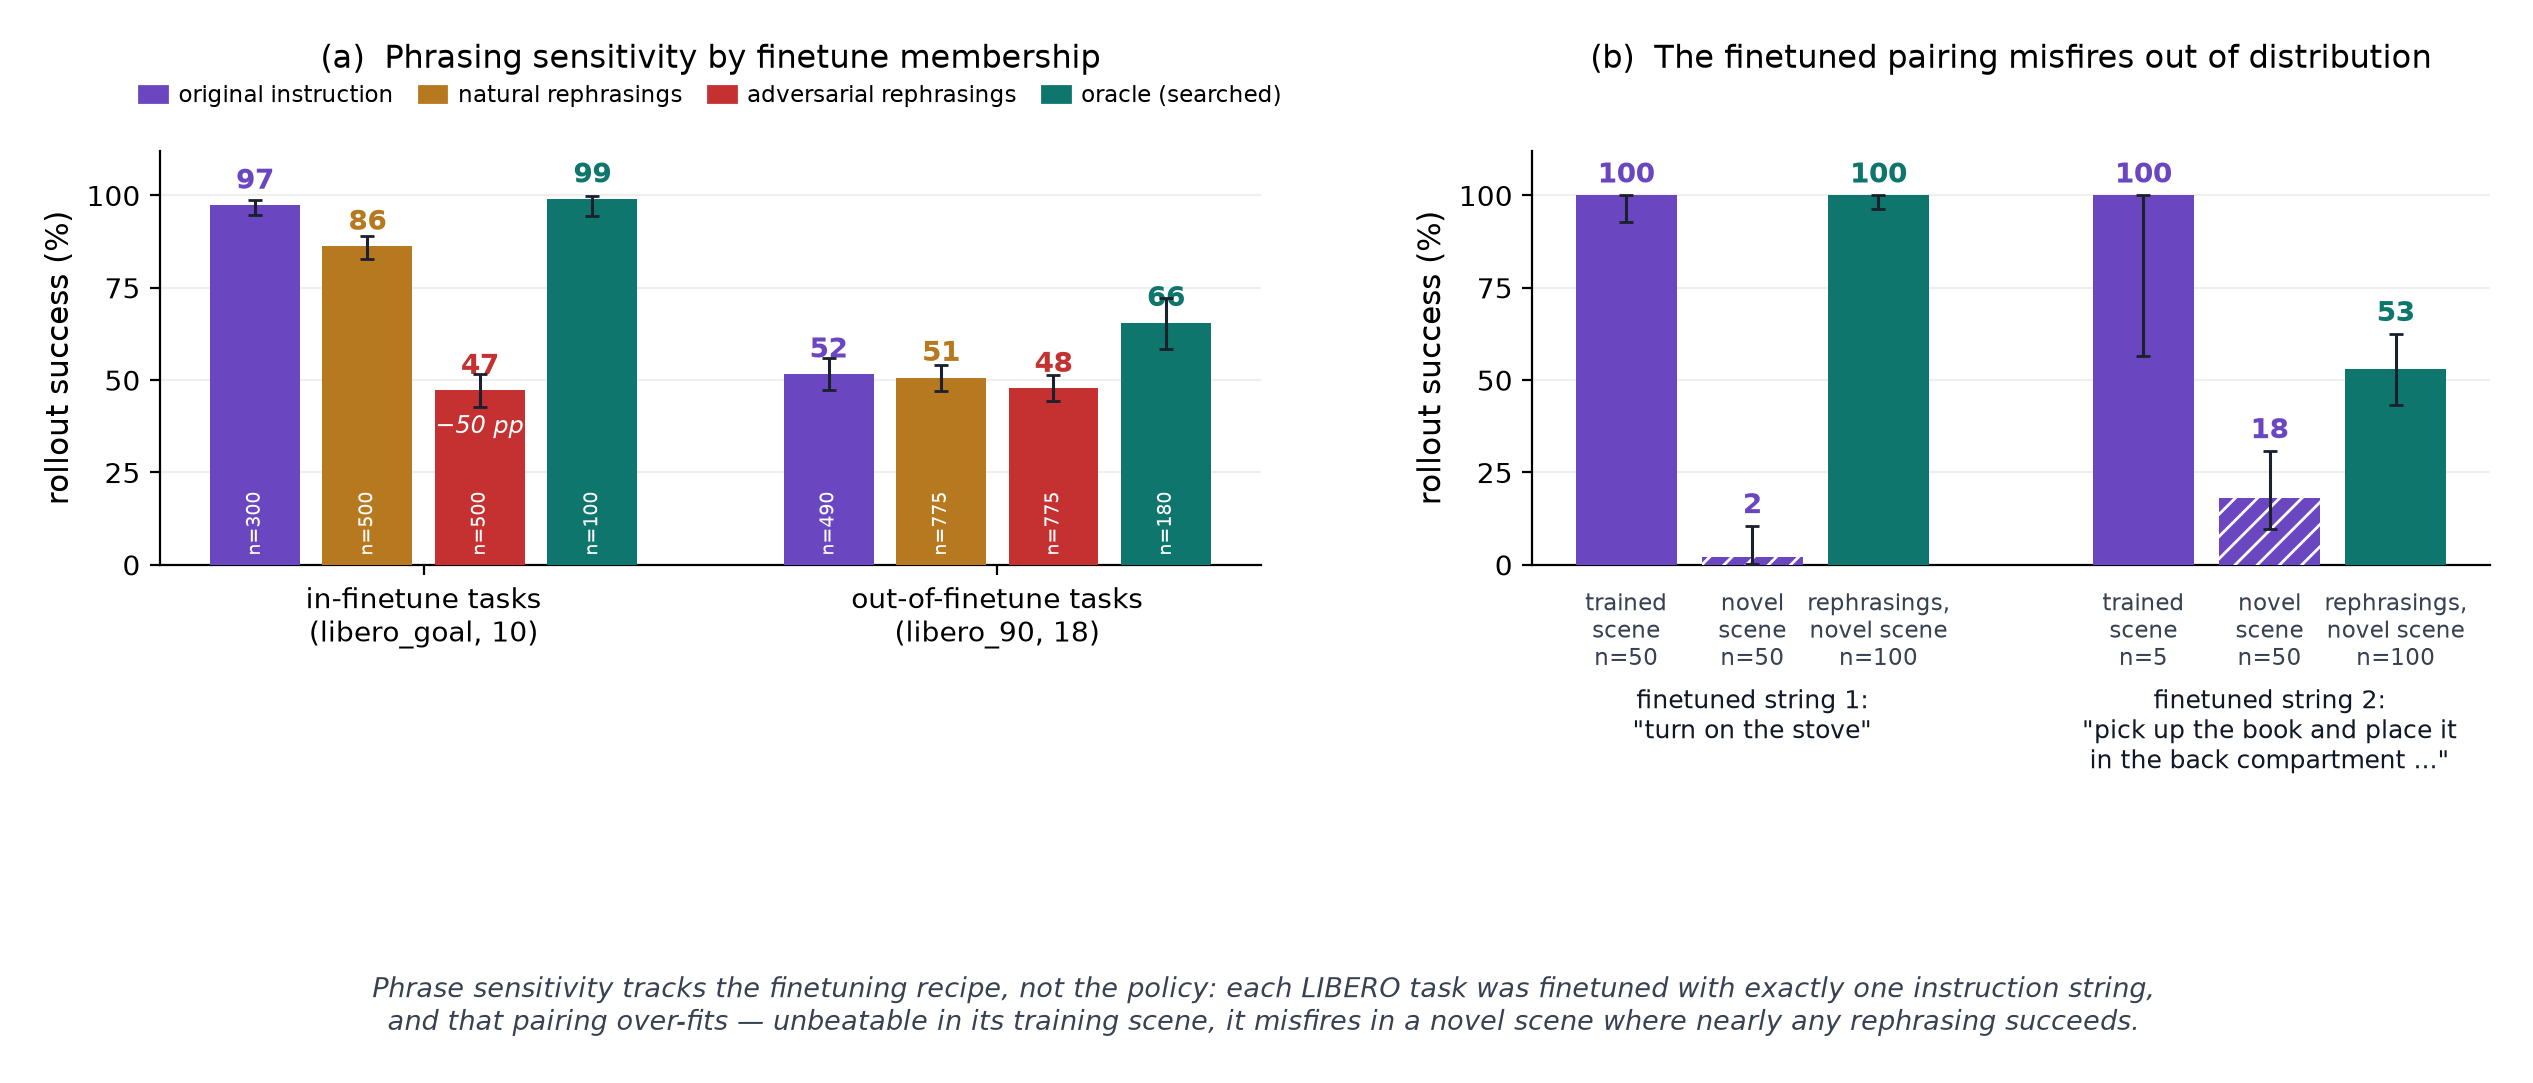
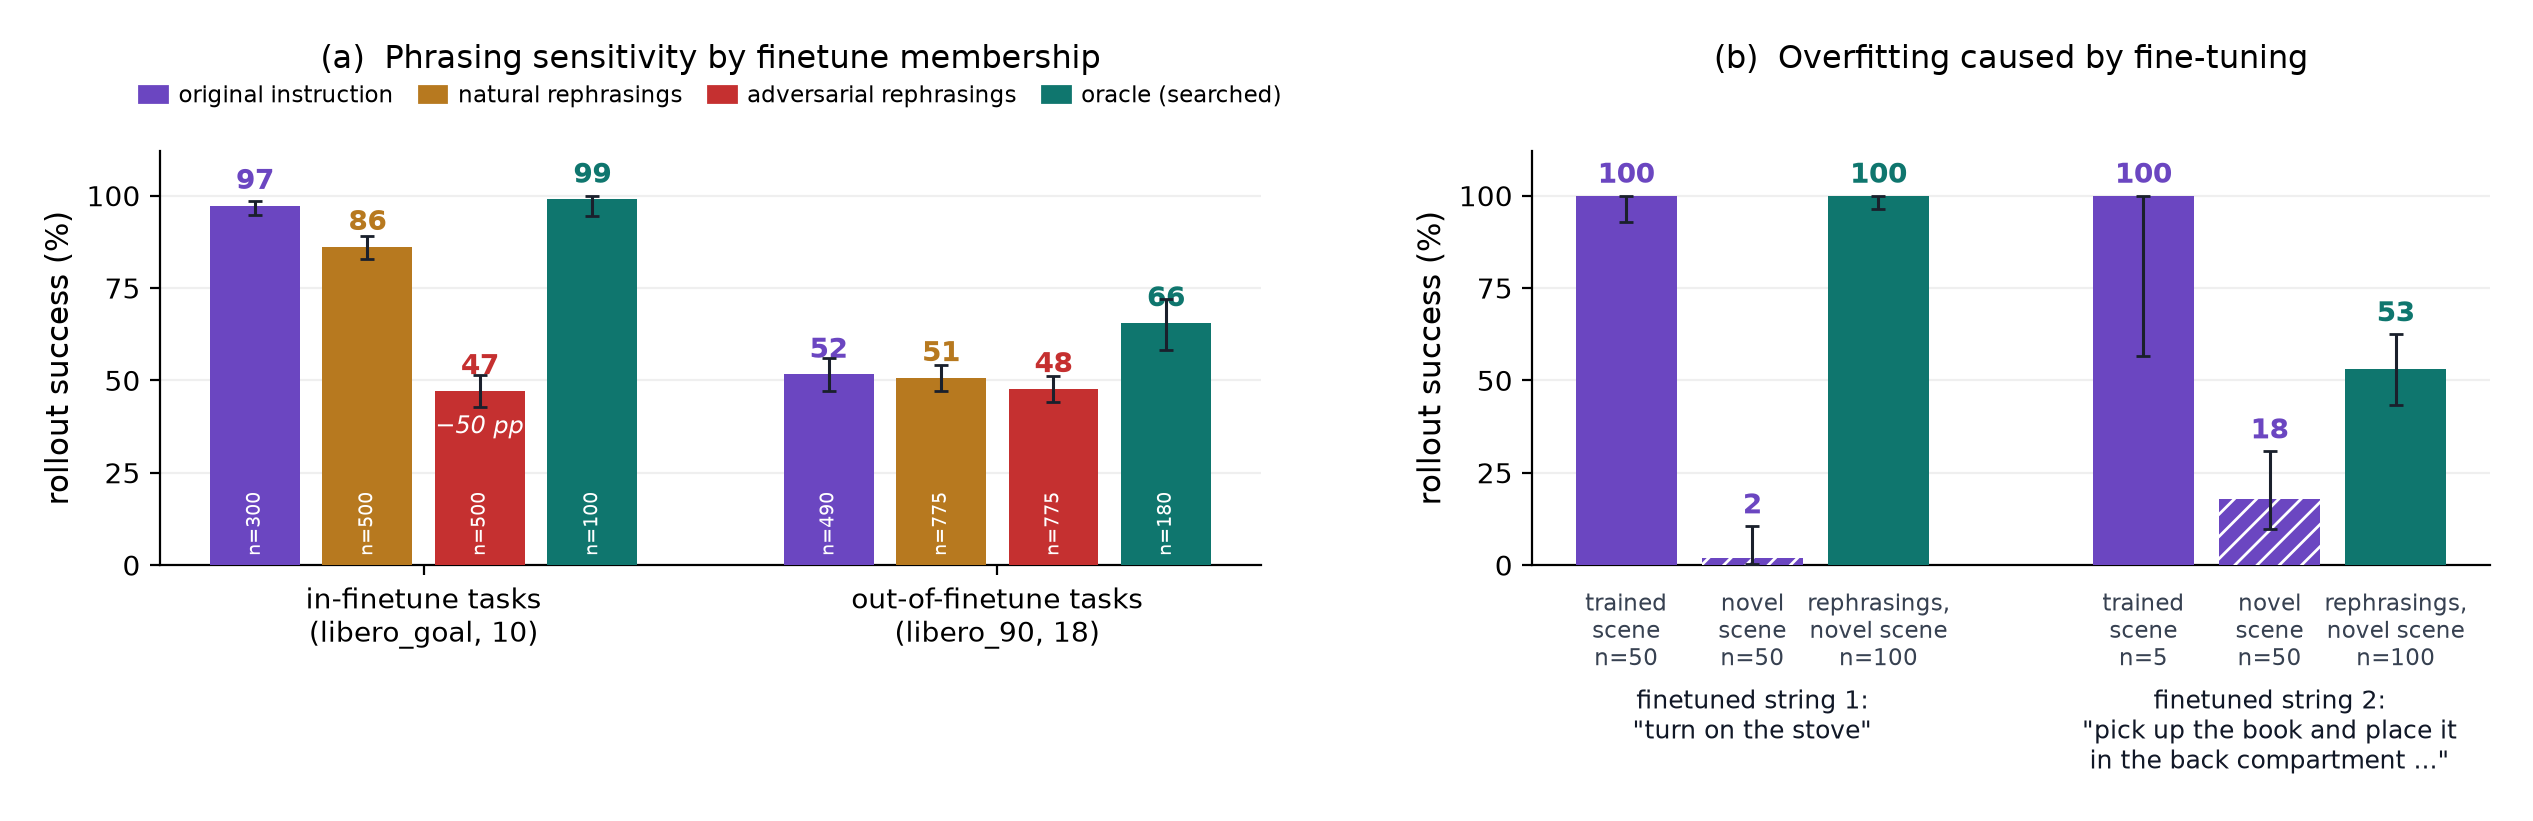
paper: pi0.5 figure (b retitled, comment moved to caption) + minimal section; mirror

diff --git a/paper/main.tex b/paper/main.tex
@@ -712,6 +712,39 @@ rather than its transferable one. Distillation into human-readable
 rules, gated on held-out measurement, appears to be the safer consumer
 of a noisy reward.
 
+\subsection{A Second Policy: $\pi_{0.5}$ on LIBERO}
+\begin{figure*}[!t]
+    \centering
+    \includegraphics[width=\textwidth]{pi05_fourtier.png}
+    \caption{Four-tier phrasing evaluation of $\pi_{0.5}$ fine-tuned on
+LIBERO, where each task is paired with exactly one instruction string.
+(a) On tasks whose instruction was in the fine-tuning data, wording
+matters: adversarial rephrasings cost 50 points. On tasks outside the
+fine-tuning data, all phrasings perform the same. (b) The two
+instruction strings that appear verbatim in the fine-tuning data are
+over-fit to their training scenes: in a novel scene the fine-tuned
+string fails almost completely while nearly any rephrasing of it
+succeeds. Bars show pooled rollout success; error bars are Wilson 95\%
+intervals; per-bar episode counts as labeled.}
+    \label{fig:pi05_fourtier}
+\end{figure*}
+
+To check how much of this picture depends on the training recipe, we
+repeated the four-tier evaluation on a second policy and benchmark:
+$\pi_{0.5}$ fine-tuned by Physical Intelligence on LIBERO (over ten
+thousand rollout episodes across 30 tasks; natural and adversarial
+tiers generated with the same prompts as our SIMPLER tiers; the oracle
+is a rollout-driven phrase search whose winner is re-measured on
+held-out initial states). Figure~\ref{fig:pi05_fourtier} shows the
+result: phrase sensitivity depends on how the policy was fine-tuned,
+not on the policy. Tasks whose instruction string was in the
+fine-tuning data reproduce the SIMPLER picture --- the original wording
+is near-unbeatable and ornate rephrasings cost 50 points --- while
+tasks outside the fine-tuning data show no phrasing penalty at all.
+The fine-tuned pairing itself over-fits: evaluated in a new scene, the
+trained string fails almost completely while nearly any rephrasing of
+it succeeds.
+
 \section{Conclusions}
 
 A frozen $\pi_0$ executor's success rate depends heavily on instruction

diff --git a/scripts/make_paper_fourtier.py b/scripts/make_paper_fourtier.py
@@ -137,12 +137,8 @@ b.set_ylabel("rollout success (%)", fontsize=11)
 b.spines["top"].set_visible(False)
 b.spines["right"].set_visible(False)
 b.grid(alpha=0.2, axis="y", zorder=0)
-b.set_title("(b)  The finetuned pairing misfires out of distribution", fontsize=11.5, pad=30)
+b.set_title("(b)  Overfitting caused by fine-tuning", fontsize=11.5, pad=30)
 
-fig.text(0.5, -0.155,
-         "Phrase sensitivity tracks the finetuning recipe, not the policy: each LIBERO task was finetuned with exactly one instruction string,\n"
-         "and that pairing over-fits \u2014 unbeatable in its training scene, it misfires in a novel scene where nearly any rephrasing succeeds.",
-         ha="center", fontsize=9.6, fontstyle="italic", color="#374151")
 fig.tight_layout()
 out = ROOT / "results/charts/paper_fourtier.png"
 fig.savefig(out, dpi=200, bbox_inches="tight", pad_inches=0.22)
